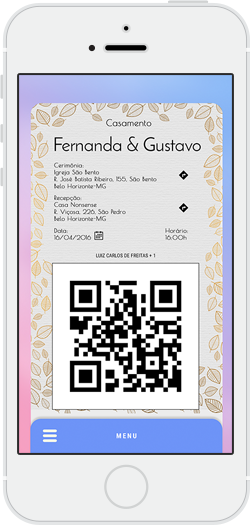
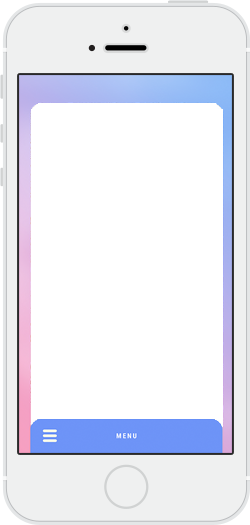
mini convite no passo final com os dados do casal

Changed region(s): [[0.112, 0.1829, 0.896, 0.8229]]

diff --git a/app/setup/confirmacao.html b/app/setup/confirmacao.html
@@ -7,9 +7,18 @@
   </div>
   <!--row-->
 
-  <div class="row">
+  <div class="row" ng-init="setup.SetUpMinConvite();">
     <div class="col-sm-3 hidde-xs">
-      <img src="image/iphone.png" alt="iphone" class="img-responsive">
+      <div class="convite-cel">
+        <img src="image/iphone.png" alt="iphone" class="img-responsive convite-back">
+        <img ng-src="{{setup.conviteLink}}" alt="convite" class="convite-front">
+        <p class=" bloco" ng-style="{'font-family' : convite.styles.nomeCasal['font-family']}" style="top: 142px;left: 30px;text-align: center;width: 195px;font-size: 1.250em"
+          ng-bind-html="convite.dados.DadosFormatacaoConvite.conteudo_nomecasal"></p>
+        <img src="image/qrcode_apple.jpg" alt="QR Code Apple Store" style="max-width: 140px;position: relative;top: -100px;left: 59px;">
+      </div>
+      <!--convite-cel-->
+
+      <p style="font-size: 0.625em;margin-top: 30px;margin-left: 10px;">*Imagem meramente ilustrativa</p>
     </div>
     <!--col-sm-3-->
 
@@ -17,7 +26,8 @@
       <h3><strong>O seu convite foi criado com sucesso!</strong></h3>
       <p style="font-size: 1.250em">Enviamos para o seu e-mail o modelo do convite do seu casamento. <br> Cheque seu e-mail e confira. <br> Você poderá
         editá-lo ou escolher outro modelo de layout até o envio dos convites. Depois de enviado, ele não poderá mais ser
-        alterado.</p>
+        alterado.
+      </p>
 
       <hr>
 
@@ -37,16 +47,16 @@
       <a href="https://play.google.com/store/apps/details?id=com.pixla.celebri&hl=pt_BR" target="_blank" title="Baixar na Google Play"
         style="display: inline-block;    margin-top: 50px;">
         <img src="image/googleplay.png" alt="Google Play">
-        </a>
-        <br>
+      </a>
+      <br>
 
-        <img src="image/qrcode_apple.jpg" alt="QR Code Apple Store" style="display: inline-block;margin-right: 48px;margin-top: 50px;max-width:198px">
-        <img src="image/qrcode_google.jpg" alt="QR Code Google Play" style="display: inline-block;margin-top: 50px;max-width:198px">
+      <img src="image/qrcode_apple.jpg" alt="QR Code Apple Store" style="display: inline-block;margin-right: 48px;margin-top: 50px;max-width:198px">
+      <img src="image/qrcode_google.jpg" alt="QR Code Google Play" style="display: inline-block;margin-top: 50px;max-width:198px">
 
-        <br>
-        <p style="font-size: 1.250em">Se preferir, aponte um leitor de QR Code para os códigos acima para baixar direto no seu smartphone.</p>
+      <br>
+      <p style="font-size: 1.250em">Se preferir, aponte um leitor de QR Code para os códigos acima para baixar direto no seu smartphone.</p>
 
-        <md-button style=" line-height: 73px;margin: 108px 0 98px 0" ui-sref="casal" class="md-primary pull-right">Ok</md-button>
+      <md-button style=" line-height: 73px;margin: 108px 0 98px 0" ui-sref="casal" class="md-primary pull-right">Ok</md-button>
 
     </div>
     <!--col-sm-9-->

diff --git a/app/setup/setup.controller.js b/app/setup/setup.controller.js
@@ -29,6 +29,7 @@
     const ID = session.user.id;
     var vm = this;
 
+    vm.conviteLink = 'https://celebri.com.br/celebri/template_convite_app/android/template1_android.png'; //link para o template para o mini convite
     vm.modeloConvite = '';
     vm.pessedBy = {
       'noivos': false,
@@ -55,6 +56,7 @@
     vm.IsCurrent = IsCurrent;
     vm.GetModelId = GetModelId;
     vm.SetModelId = SetModelId;
+    vm.SetUpMinConvite = SetUpMinConvite;
 
     Activate();
 
@@ -82,9 +84,7 @@
 
       var dados = conversorService.Json2Xml(vm.status, '');
 
-      serverService.Request('AtualizarStatusSetup', dados).then(function (resp) {
-        console.log(resp);
-      });
+      serverService.Request('AtualizarStatusSetup', dados);
     }
 
     /**
@@ -113,6 +113,15 @@
      */
     function SetModelId() {
       sessionStorage.modelo = vm.modeloConvite;
+    }
+
+    /**
+     * @function SetUpMinConvite
+     * @desc Configura o mini convite do ultimo passo
+     * @memberof SetupController
+     */
+    function SetUpMinConvite() {
+      vm.conviteLink = 'https://celebri.com.br/celebri/template_convite_app/android/template' + sessionStorage.modelo + '_android.png';
     }
 
   }

diff --git a/app/app.routing.js b/app/app.routing.js
@@ -71,7 +71,9 @@
       })
       .state('setup.confirmacao', {
         url: '/confirmacao',
-        templateUrl: 'app/setup/confirmacao.html'
+        templateUrl: 'app/setup/confirmacao.html',
+        controller: 'ConviteController',
+        controllerAs: 'convite',
       })
       .state('login', {
         url: '/login',

diff --git a/app/setup/setup.css b/app/setup/setup.css
@@ -148,3 +148,20 @@
 .setup .sidebar .md-primary {
   background-color: transparent
 }
+
+.convite-cel {
+  position: relative
+}
+
+.convite-back {
+  position: absolute;
+  z-index: 1;
+}
+
+.convite-front {
+  width: 192px;
+  position: relative;
+  z-index: 0;
+  top: 103px;
+  left: 31px;
+}
